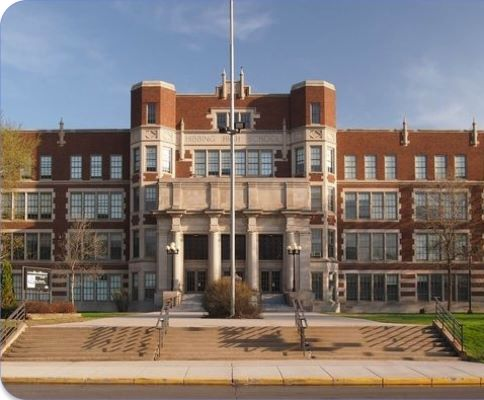
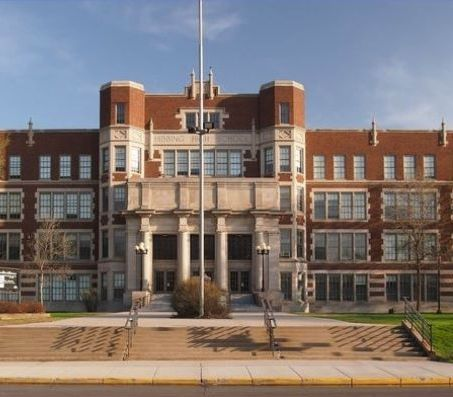
Worked on School images

diff --git a/src/components/ListOfSchools.jsx b/src/components/ListOfSchools.jsx
@@ -45,10 +45,11 @@ const SchoolImg = styled.div`
 
   @media (max-width: 768px) {
     width: 100%;
-    height: auto;
+    height: 100%;
 
     & img {
       border-radius: 1rem 1rem 0 0;
+      object-fit: cover;
     }
   }
 
